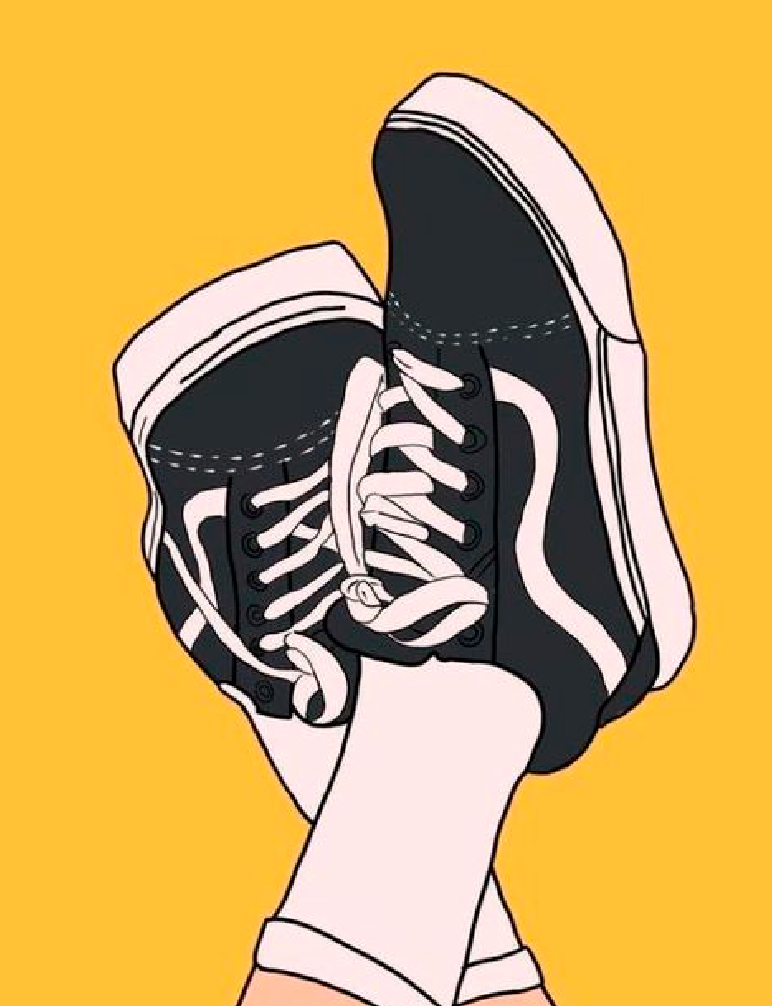
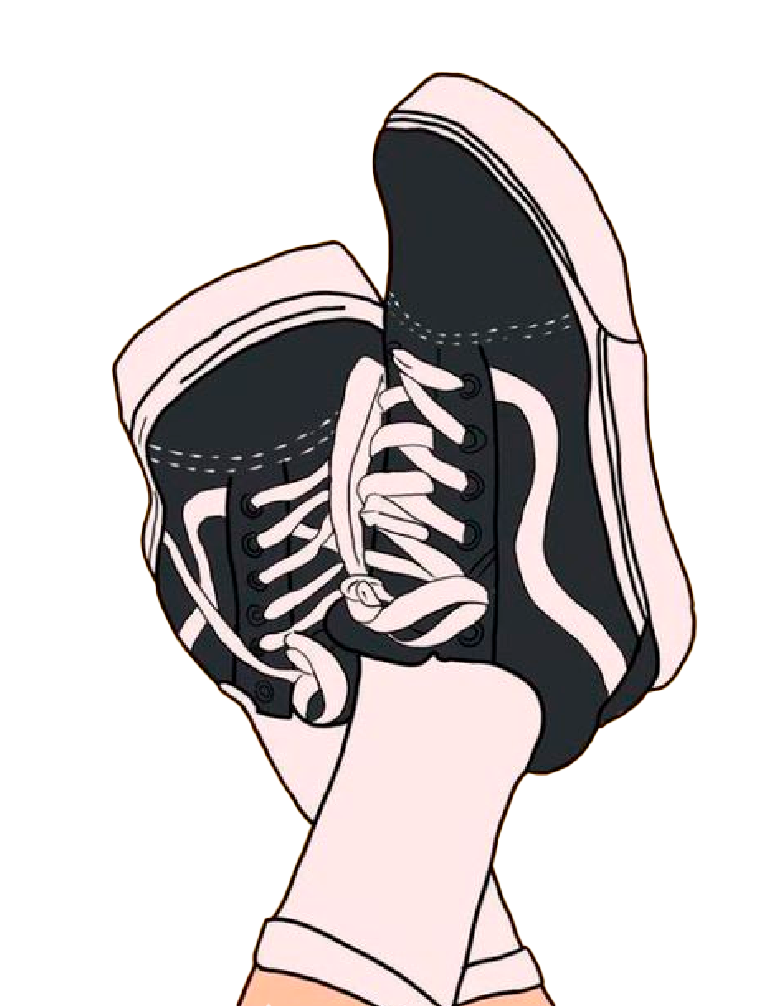
Shoe placement

diff --git a/css/stylesheet.css b/css/stylesheet.css
@@ -111,10 +111,20 @@ footer {
     z-index: -1;
 }
 
+.hero_inner_img {
+    position: absolute;
+    max-width: 500px;
+    width: 100%;
+}
+
 
 @media (max-width: 1000px) {
     .hero {
         padding: 30%;
+    }
+    
+    .hero_inner_img {
+        right: 0;
     }
 }
 
@@ -123,5 +133,10 @@ footer {
     .hero {
         padding: 10%;
     }
+    
+    .hero_inner_img {
+        right: 40px;
+    }
+
 }
 

diff --git a/index.html b/index.html
@@ -16,6 +16,7 @@
     <body>
         <div class="hero" id="hero">
             <div class="hero_inner">
+                <img src="img/sneakers.png" class="hero_inner_img"/>
             </div>
         </div>
         
